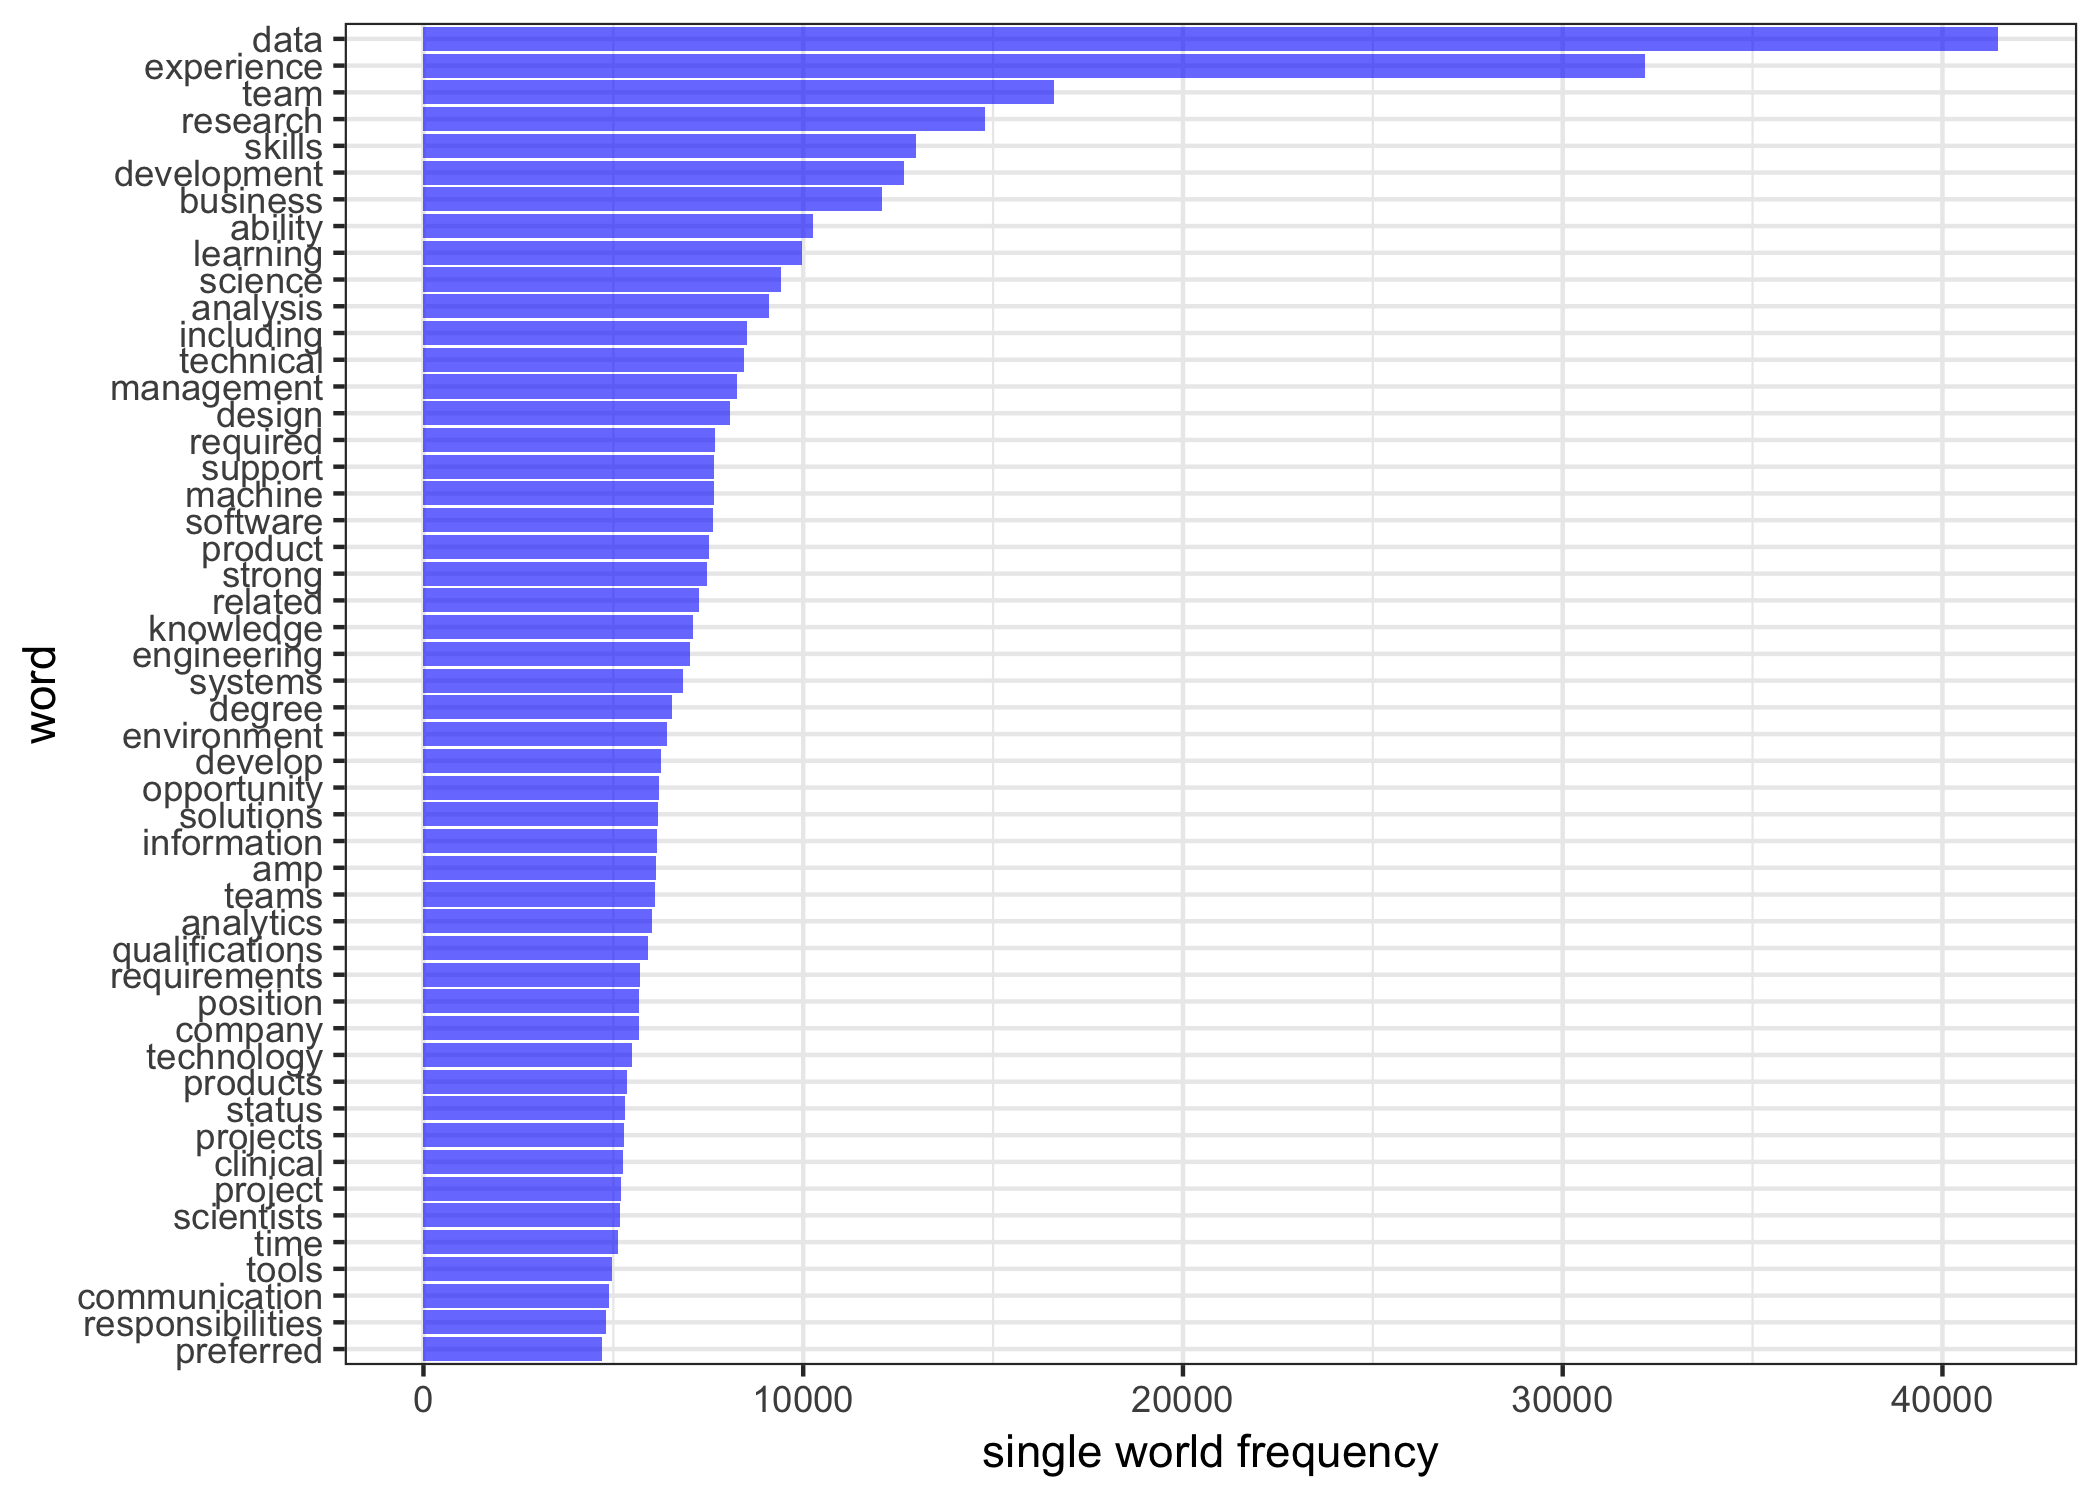
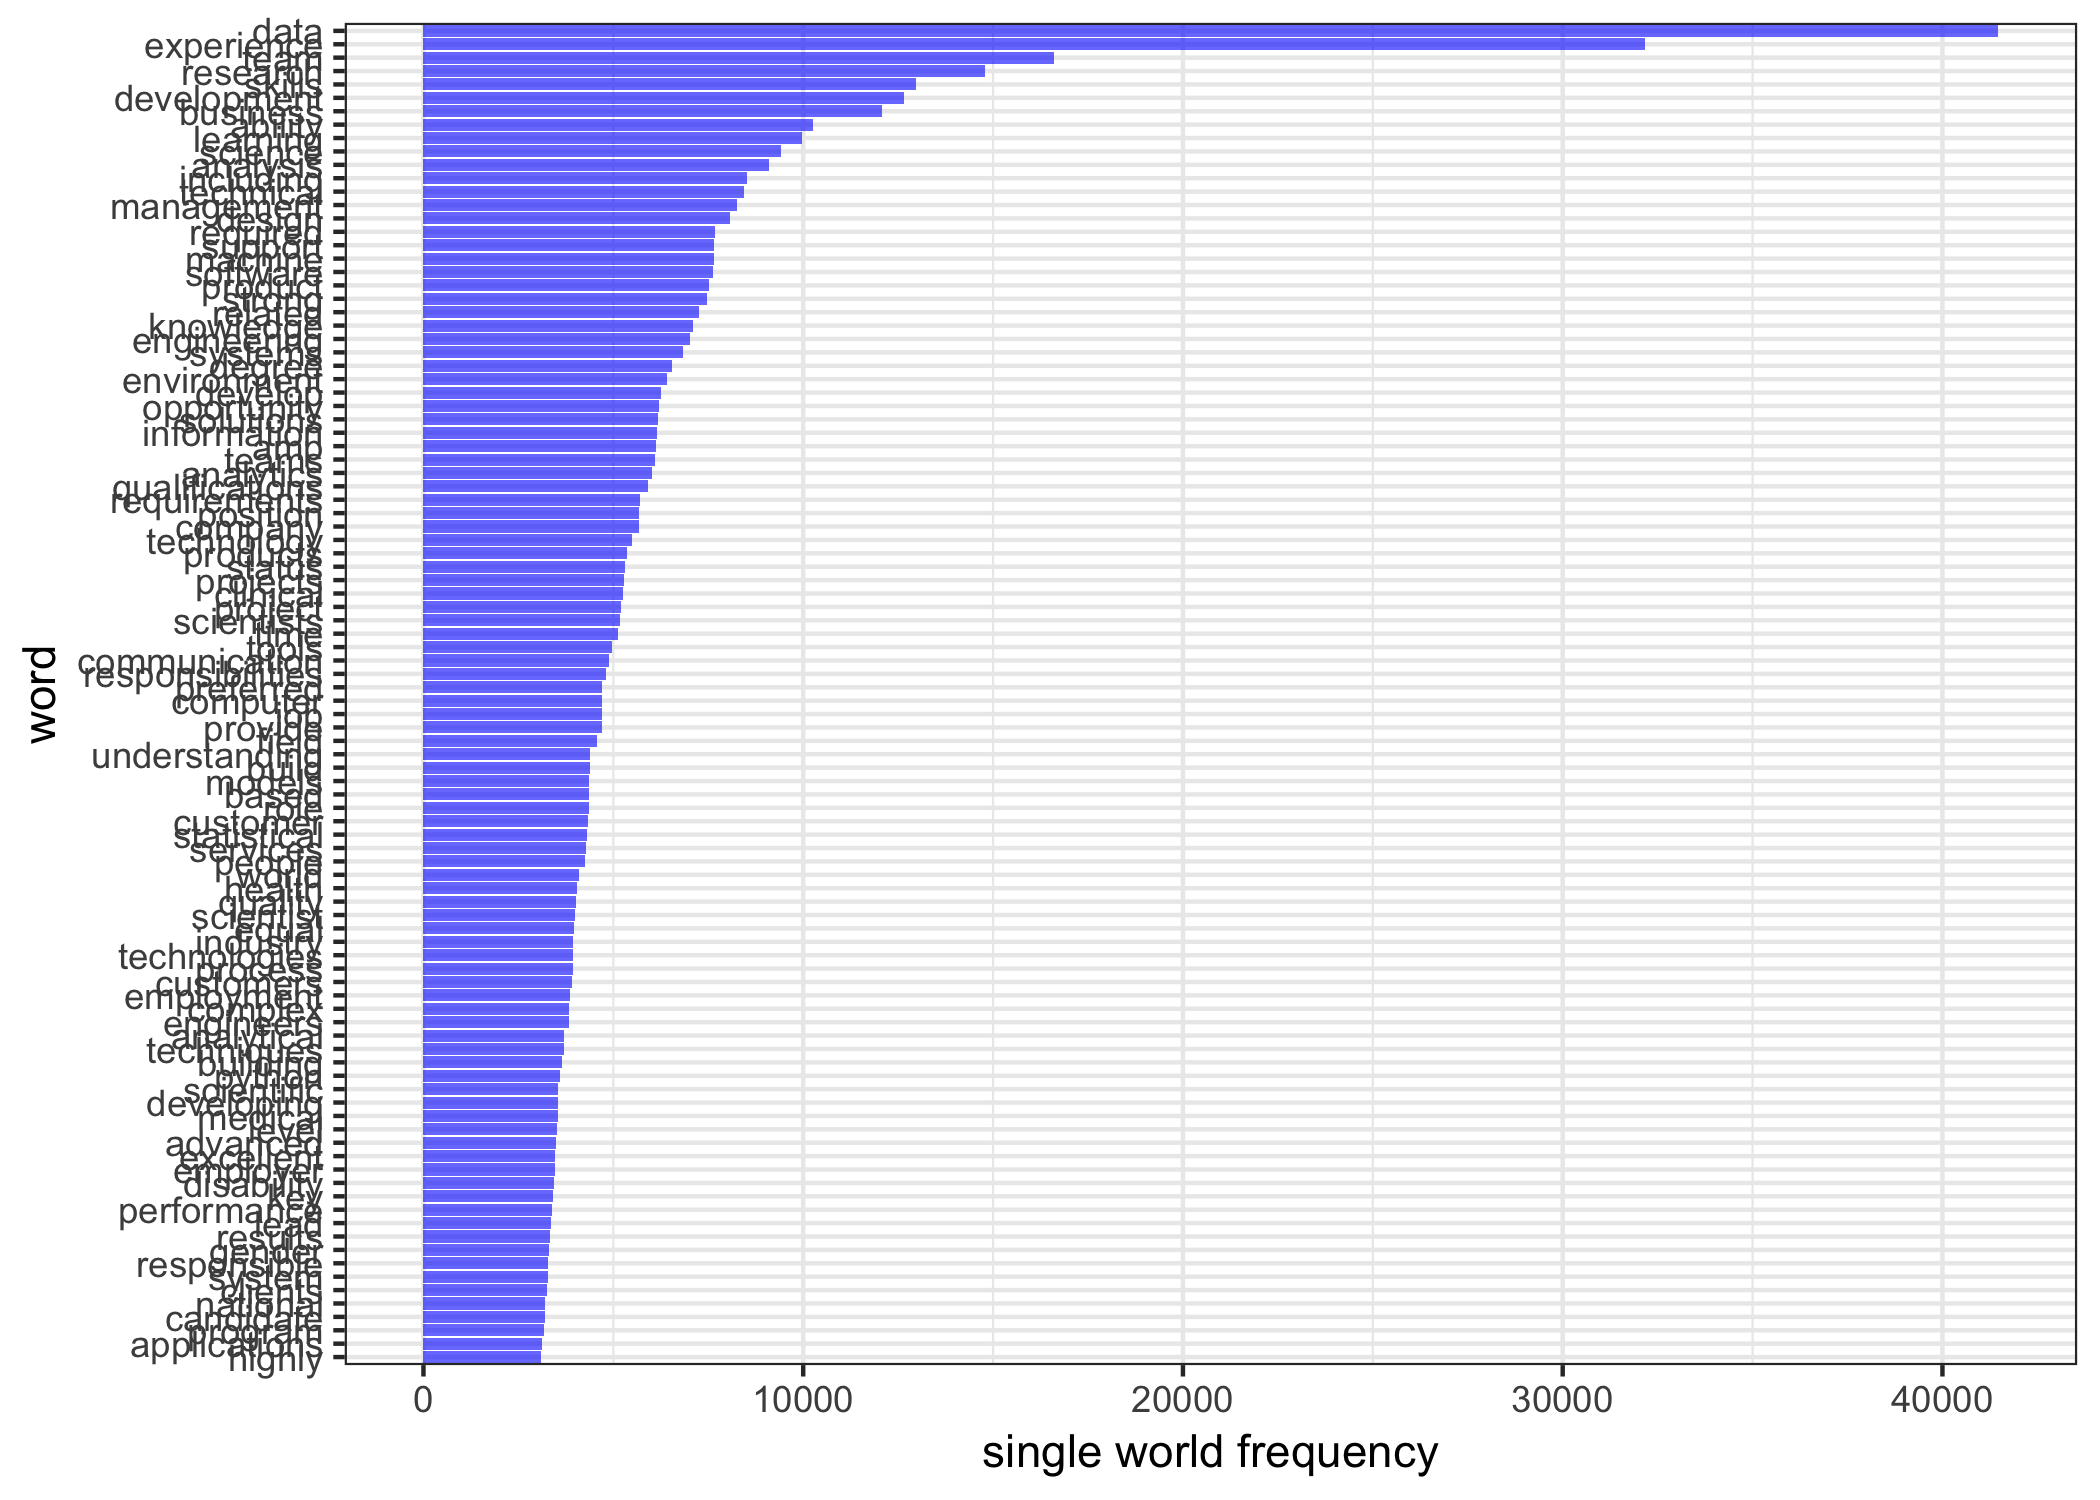
doing some refinement

diff --git a/tidy_data_EZ.md b/tidy_data_EZ.md
@@ -59,7 +59,7 @@ we’ll un-nest the tokens (i.e. words) in each description; the result is a tid
 
 word frequency in description
 
-1.  Single word
+-   Single word
 
 ``` r
 data(stop_words)
@@ -72,7 +72,7 @@ inspection_words_single =
 
 inspection_words_single %>% 
   count(word, sort = TRUE) %>% 
-  top_n(50) %>% 
+  top_n(100) %>% 
   mutate(word = fct_reorder(word, n)) %>% 
   ggplot(aes(x = word, y = n)) + 
   geom_bar(stat = "identity", fill = "blue", alpha = .6) + 
@@ -82,7 +82,7 @@ inspection_words_single %>%
 
 ![](tidy_data_EZ_files/figure-markdown_github/unnamed-chunk-4-1.png)
 
-1.  Double word
+-   Double word
 
 ``` r
 data(stop_words)
@@ -110,7 +110,7 @@ inspection_words %>%
 
 ![](tidy_data_EZ_files/figure-markdown_github/unnamed-chunk-5-1.png)
 
-1.  Three words
+-   Three words
 
 ``` r
 inspection_words %>%
@@ -130,7 +130,7 @@ inspection_words %>%
 
 ![](tidy_data_EZ_files/figure-markdown_github/unnamed-chunk-6-1.png)
 
-1.  Three words
+-   four words
 
 ``` r
 inspection_words %>%
